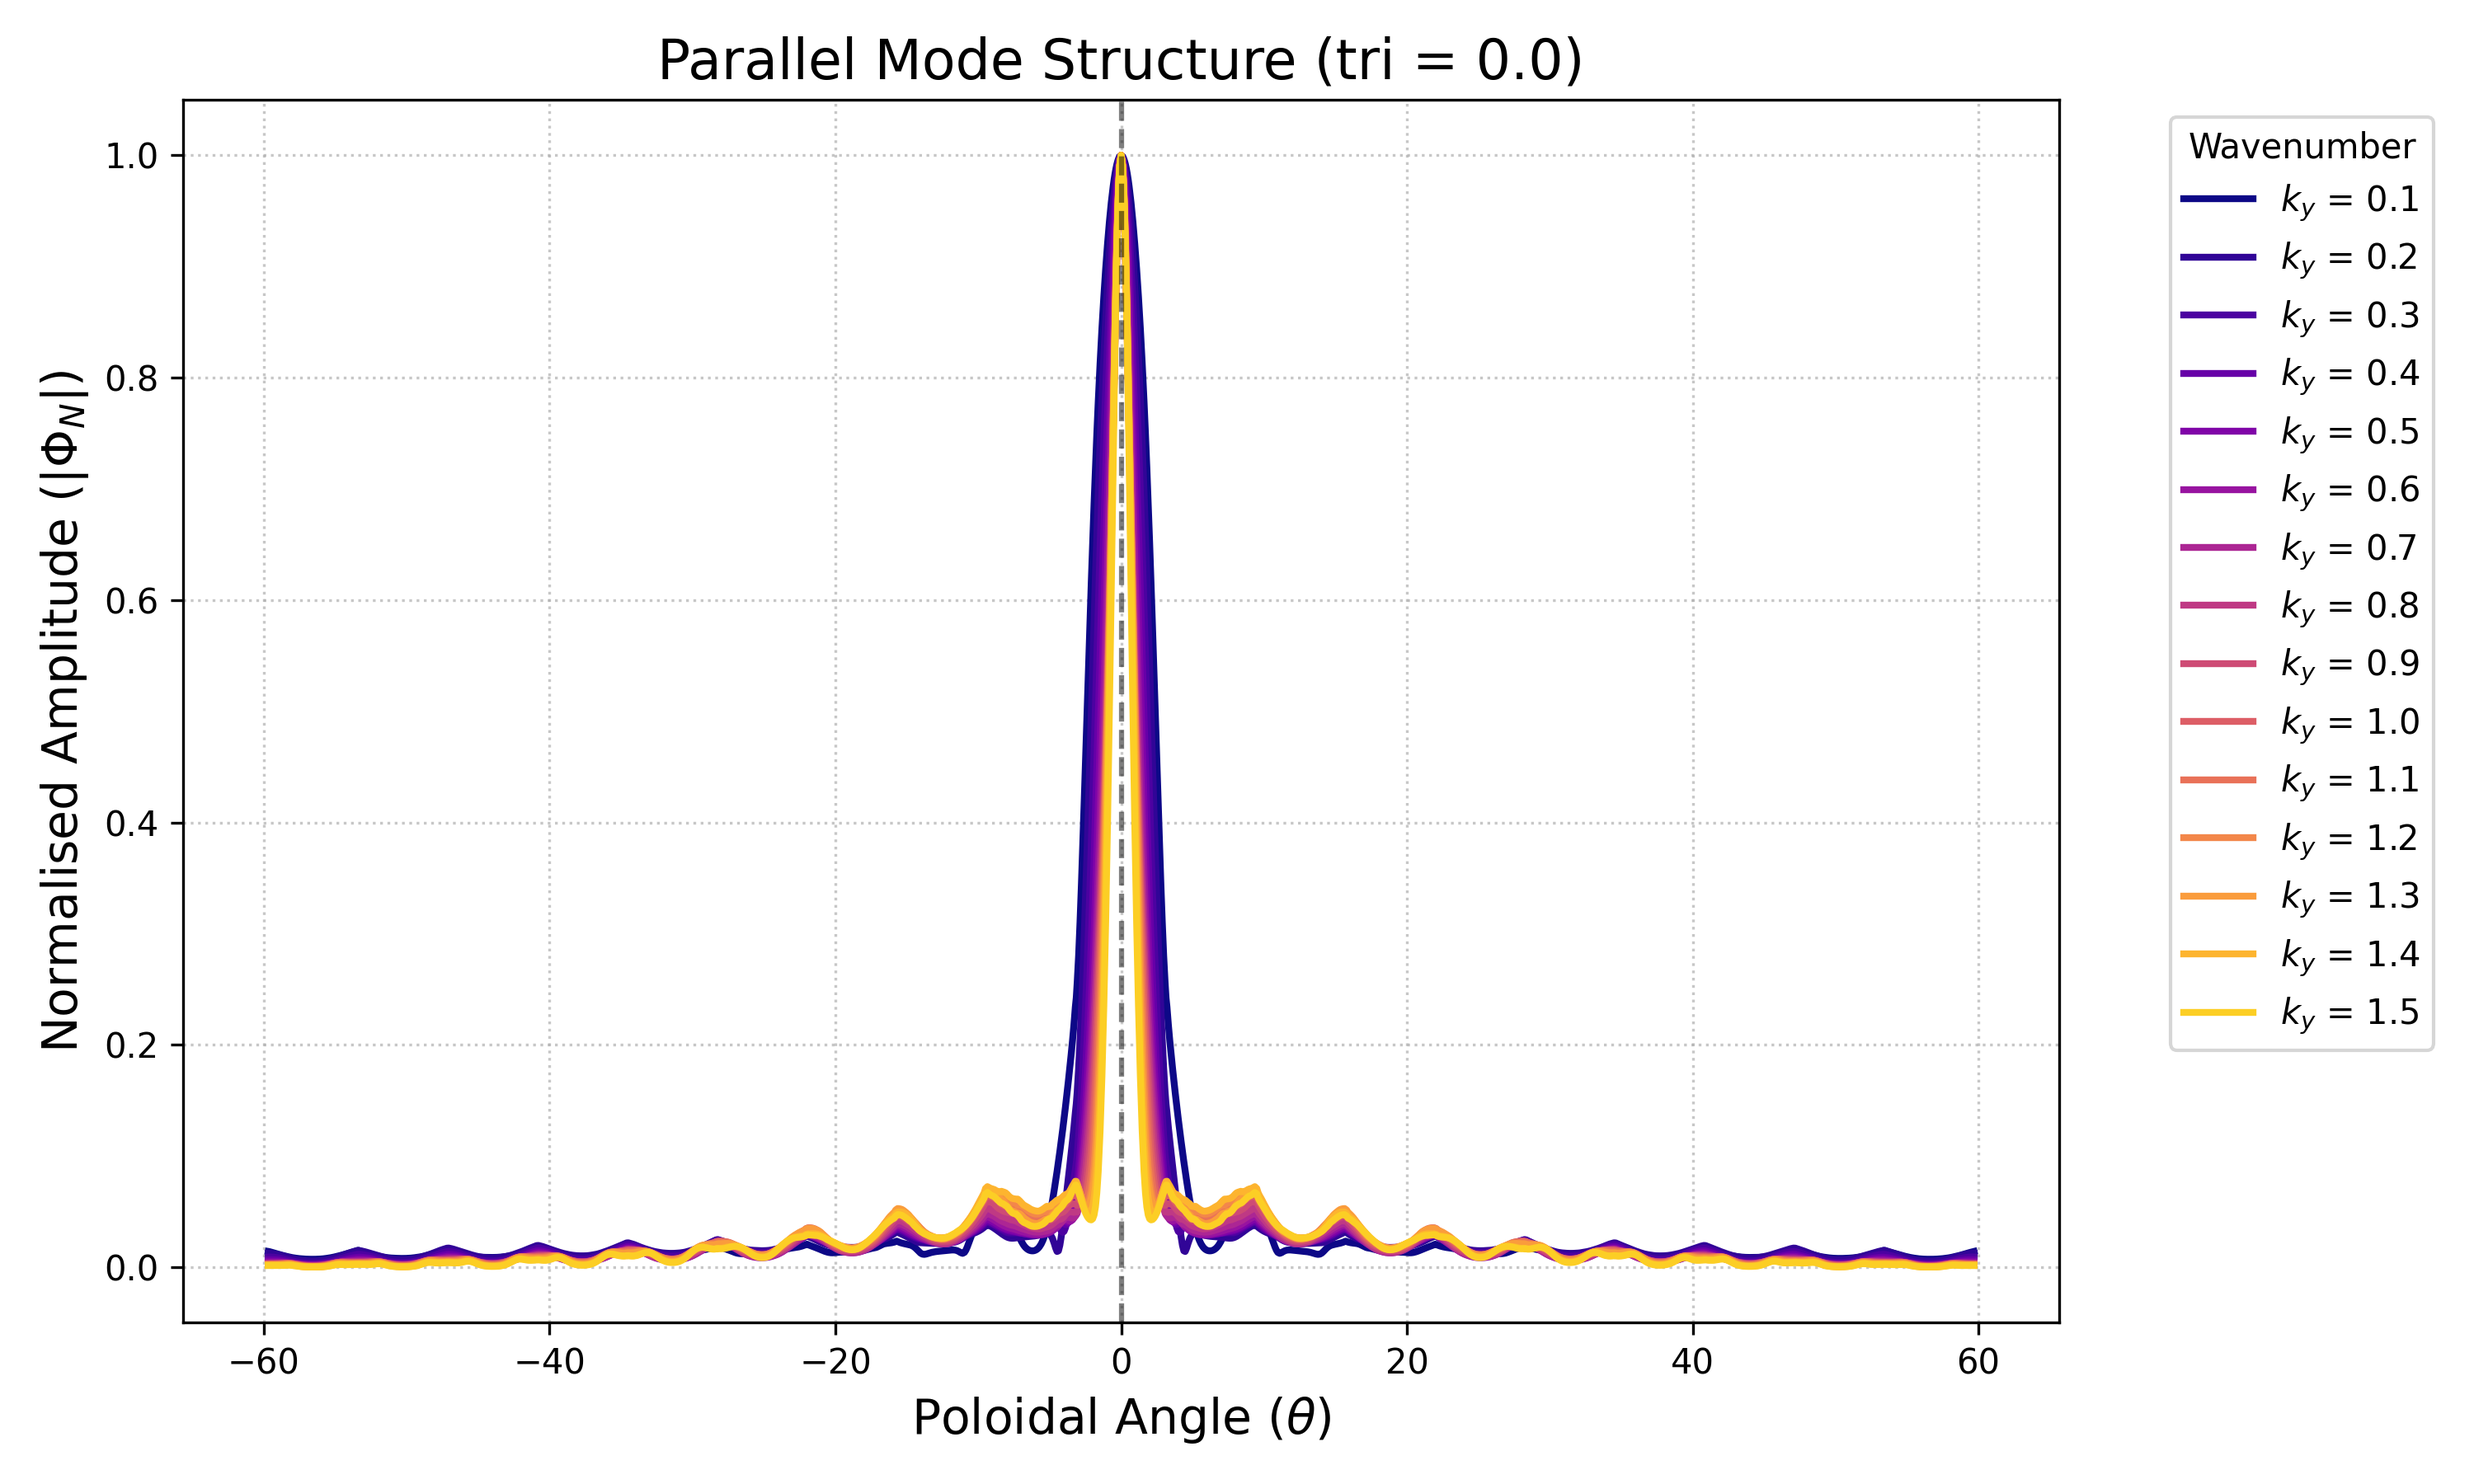
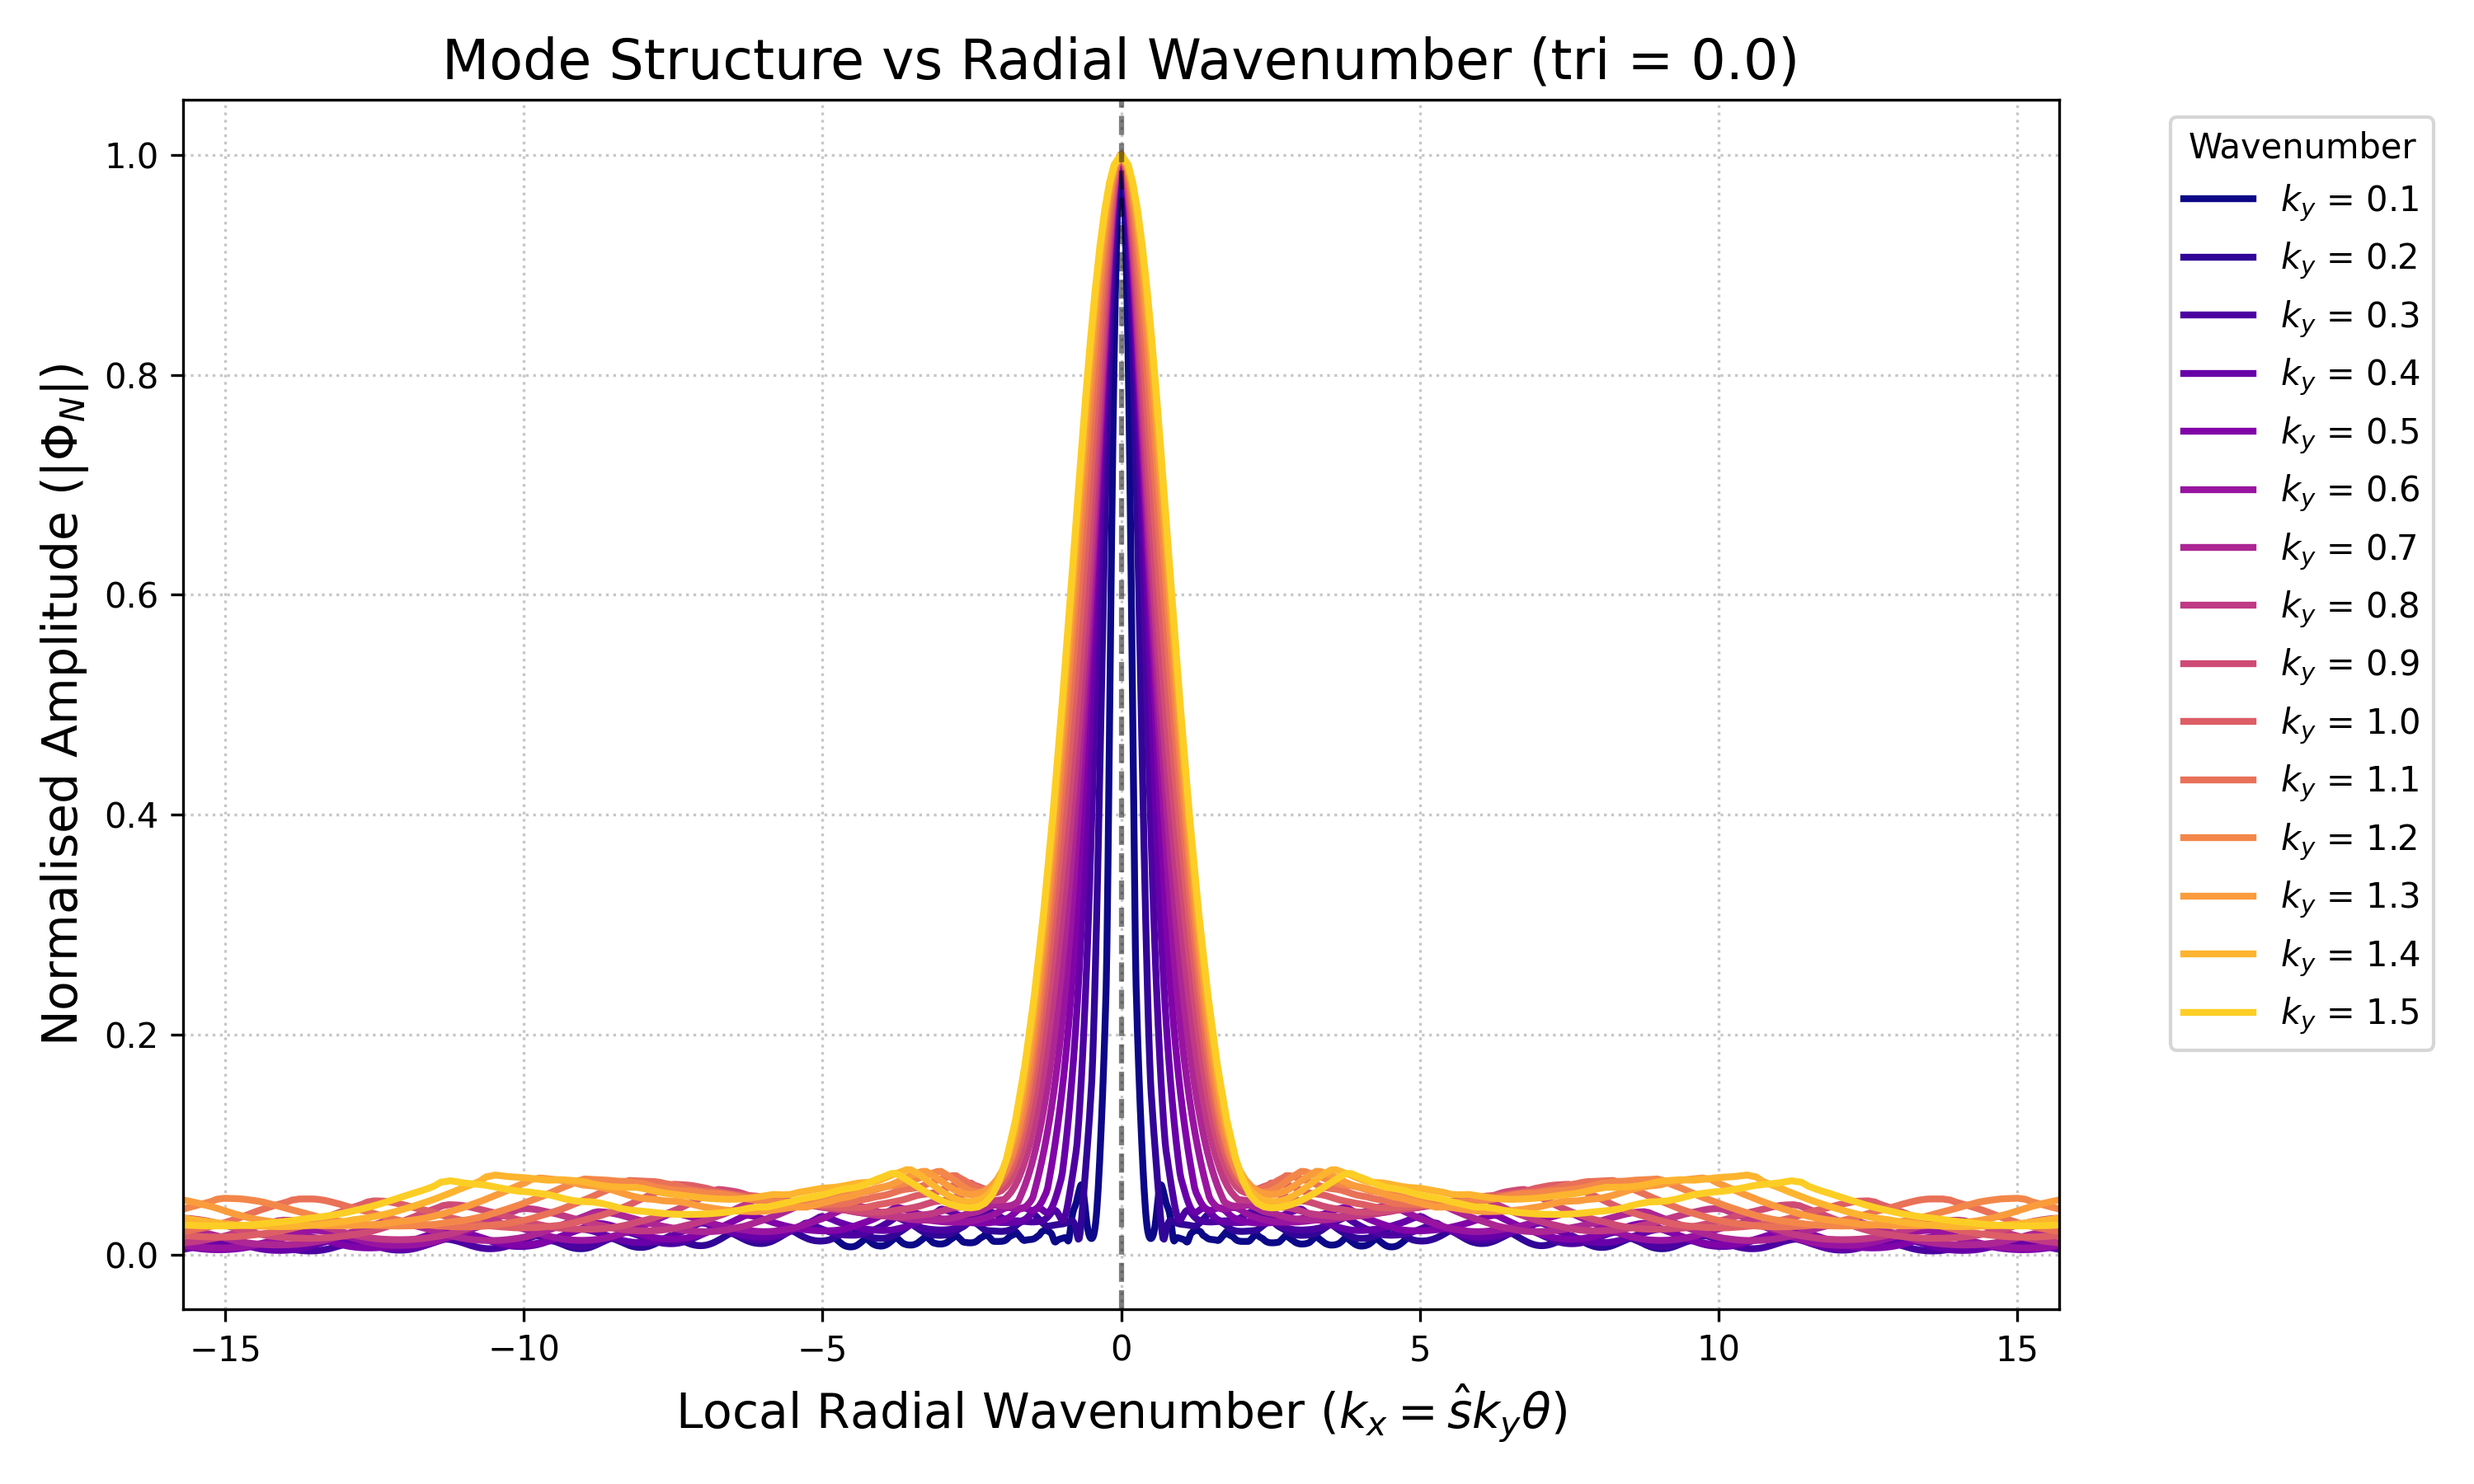
modified README and plots to include new script inputs as well as changing tri base case input file.

diff --git a/ITG_studies/Scripts/plot_mode.py b/ITG_studies/Scripts/plot_mode.py
@@ -34,7 +34,7 @@ def plot_parallel_mode_structure(base_dir, param_type, target_val=None):
             
             # Matches formats like 'miller_tri0.0' or 'kappa_1.1'
             match = re.search(rf'{param_type}_?([0-9.]+)', file)  
-                      
+
             if match:
                 file_val = float(match.group(1))
                 if file_val != target_val:
@@ -47,8 +47,12 @@ def plot_parallel_mode_structure(base_dir, param_type, target_val=None):
             # Extract ky directly from the file data
             ky = float(ds['ky'].squeeze().values)
             
-            # Extract the parallel coordinate (theta)
+            # Extract the parallel coordinate (theta) and magnetic shear (shat)
             theta = ds['theta'].squeeze().values
+            shat = float(ds['shat'].squeeze().values)
+
+            # Calculate the local radial wavenumber k_x(theta)
+            kx_local = shat * ky * theta
             
             # Extract and process phi
             phi_complex = ds['phi'].squeeze()
@@ -59,8 +63,8 @@ def plot_parallel_mode_structure(base_dir, param_type, target_val=None):
             phi_mag = np.sqrt(phi_real**2 + phi_imag**2)
             phi_mag_normalized = phi_mag / np.max(phi_mag)
             
-            mode_data[ky] = {'theta': theta, 'phi': phi_mag_normalized}
-            
+            mode_data[ky] = {'kx': kx_local, 'phi': phi_mag_normalized} 
+
             ds.close()
             
         except Exception as e:
@@ -78,16 +82,19 @@ def plot_parallel_mode_structure(base_dir, param_type, target_val=None):
 
     # Plot each ky line
     for idx, ky in enumerate(sorted_kys):
-        theta = mode_data[ky]['theta']
+        kx = mode_data[ky]['kx']
         phi = mode_data[ky]['phi']
         
         label_str = rf'$k_y$ = {ky}'
-        ax.plot(theta, phi, color=colors[idx], linewidth=2, label=label_str)
+        ax.plot(kx, phi, color=colors[idx], linewidth=2, label=label_str)
 
     # Format the Plot
-    ax.set_title(f'Parallel Mode Structure ({param_type} = {target_val})', fontsize=16)
-    ax.set_xlabel(r'Poloidal Angle ($\theta$)', fontsize=14)
+    ax.set_title(f'Mode Structure vs Radial Wavenumber ({param_type} = {target_val})', fontsize=16)
+    ax.set_xlabel(r'Local Radial Wavenumber ($k_x = \hat{s} k_y \theta$)', fontsize=14)
     ax.set_ylabel(r'Normalised Amplitude ($|\Phi_N|$)', fontsize=14)
+
+    # Set x-limits from -5pi to 5pi
+    ax.set_xlim(-5 * np.pi, 5 * np.pi)
     
     ax.axvline(0, color='black', linestyle='--', alpha=0.5)
     ax.grid(True, linestyle=':', alpha=0.7)

diff --git a/ITG_studies/Scripts/README.md b/ITG_studies/Scripts/README.md
@@ -15,3 +15,9 @@ Plotting the total flux as a function of $k_y$ will automatically plot every val
 ```bash
 python Scripts/plot_flux_ratio.py Inputs/ITG_kyscan
 ```
+
+Plotting ```plot_mode.py``` and ```plot_single_spectrum.py``` you need to specify what type of parameter is being varied. For example for a single $k_y$ spectrum plot of a triangulation dataset you must type:
+```bash
+python Scripts/plot_ky_spectrum.py Inputs/ITG_kyscan/tri_0.0 tri
+```
+Where ```tri``` defines the parameter using the GS2 input parameter. 
